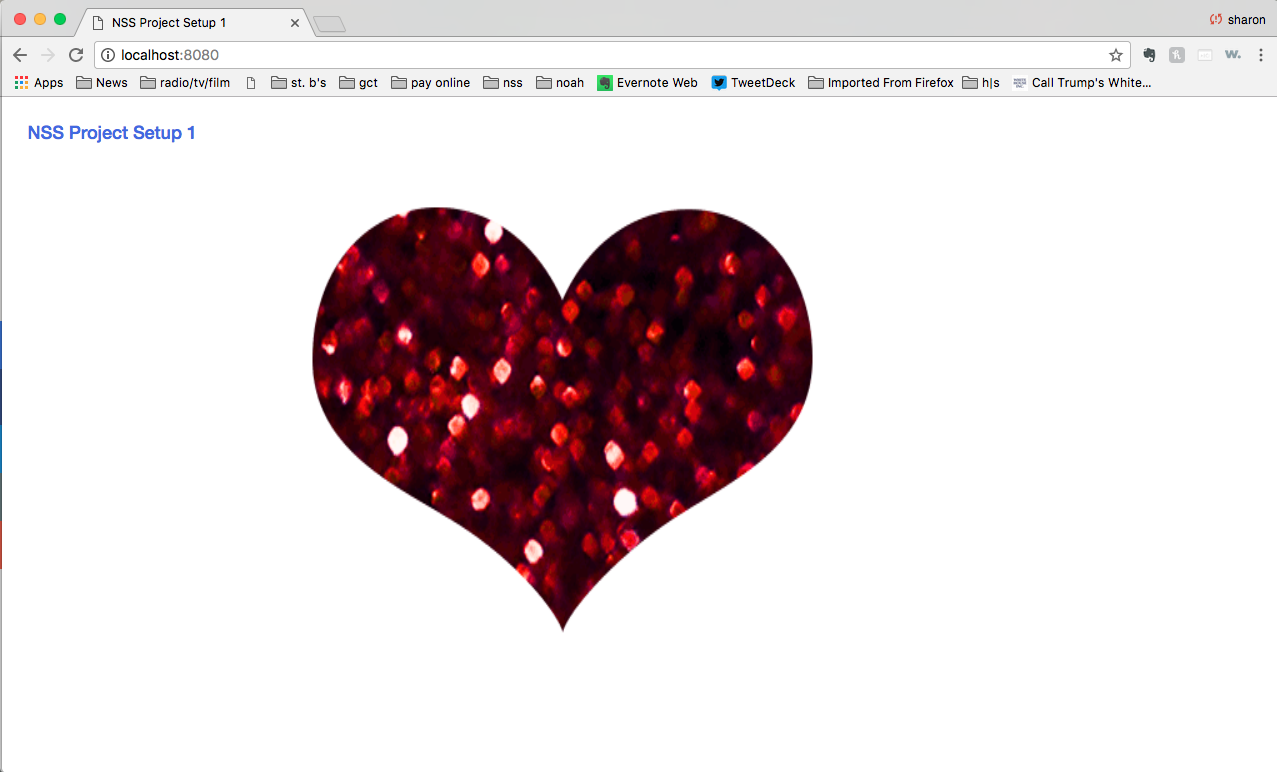
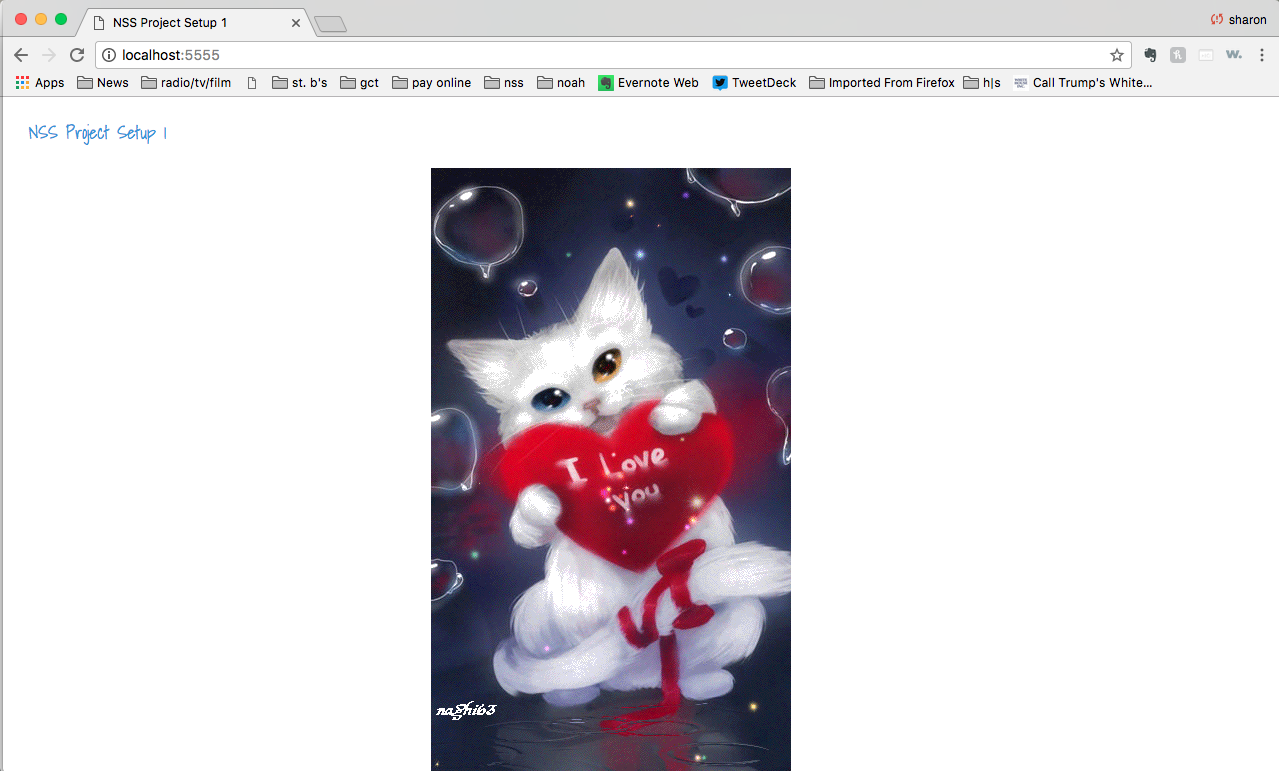
changes to font, image, screens

diff --git a/styles.css b/styles.css
@@ -1,8 +1,12 @@
 
+body {
+	font-family: 'Shadows Into Light', cursive;
+}
+
 h4 {
 	margin-top: 2%;
 	margin-left: 2%;
-	color: royalblue;
+	color: #3498db;
 }
 
 
@@ -21,6 +25,10 @@ h1 {
 	margin-left: 50px;
 }
 
+#kittenGif {
+	margin-top: 0;
+	margin-left: 25%;
+}
 
 .hidden {
 	display: none;
@@ -31,3 +39,29 @@ h1 {
 	display: block;
 }
 
+button {
+  background: #3498db;
+  background-image: -webkit-linear-gradient(top, #3498db, #2980b9);
+  background-image: -moz-linear-gradient(top, #3498db, #2980b9);
+  background-image: -ms-linear-gradient(top, #3498db, #2980b9);
+  background-image: -o-linear-gradient(top, #3498db, #2980b9);
+  background-image: linear-gradient(to bottom, #3498db, #2980b9);
+  -webkit-border-radius: 28;
+  -moz-border-radius: 28;
+  border-radius: 28px;
+  font-family: Arial;
+  color: #ffffff;
+  font-size: 20px;
+  padding: 10px 20px 10px 20px;
+  text-decoration: none;
+}
+
+button:hover {
+  background: #3cb0fd;
+  background-image: -webkit-linear-gradient(top, #3cb0fd, #3498db);
+  background-image: -moz-linear-gradient(top, #3cb0fd, #3498db);
+  background-image: -ms-linear-gradient(top, #3cb0fd, #3498db);
+  background-image: -o-linear-gradient(top, #3cb0fd, #3498db);
+  background-image: linear-gradient(to bottom, #3cb0fd, #3498db);
+  text-decoration: none;
+}

diff --git a/index.html b/index.html
@@ -4,6 +4,7 @@
 <head>
 	<meta charset="UTF-8">
 	<title>NSS Project Setup 1</title>
+	<link href="https://fonts.googleapis.com/css?family=Shadows+Into+Light" rel="stylesheet">
 	<link rel="stylesheet" type="text/css" href="./lib/bower_components/bootstrap/dist/css/bootstrap.css">
 	<link rel="stylesheet" type="text/css" href="./styles.css">
 </head>
@@ -19,7 +20,8 @@
 	  		<button type="button" id="zoe"  value="thisMuch">This Much!</button>
 	  	</div>
 
-	  	<img src="./images/red-glitter-heart-animated-gif.gif" alt="animated gif" width="700" height="500" id="heartGif" class="hidden">
+	  	<img src="./images/kittenLoveYou.gif" alt="animated gif" id="kittenGif" class="hidden">
+	  	<!-- <img src="./images/red-glitter-heart-animated-gif.gif" alt="animated gif" width="700" height="500" id="heartGif" class="hidden"> -->
 	  </div>
 	  
 	</div>

diff --git a/javascripts/main.js b/javascripts/main.js
@@ -7,8 +7,8 @@ $("#zoe").click(function (){
   $("#asking").addClass("hidden");
   $("#zoe").addClass("hidden");
 
-  $("#heartGif").removeClass("hidden");
-  $("#heartGif").addClass("visible");
+  $("#kittenGif").removeClass("hidden");
+  $("#kittenGif").addClass("visible");
 
 });
 
